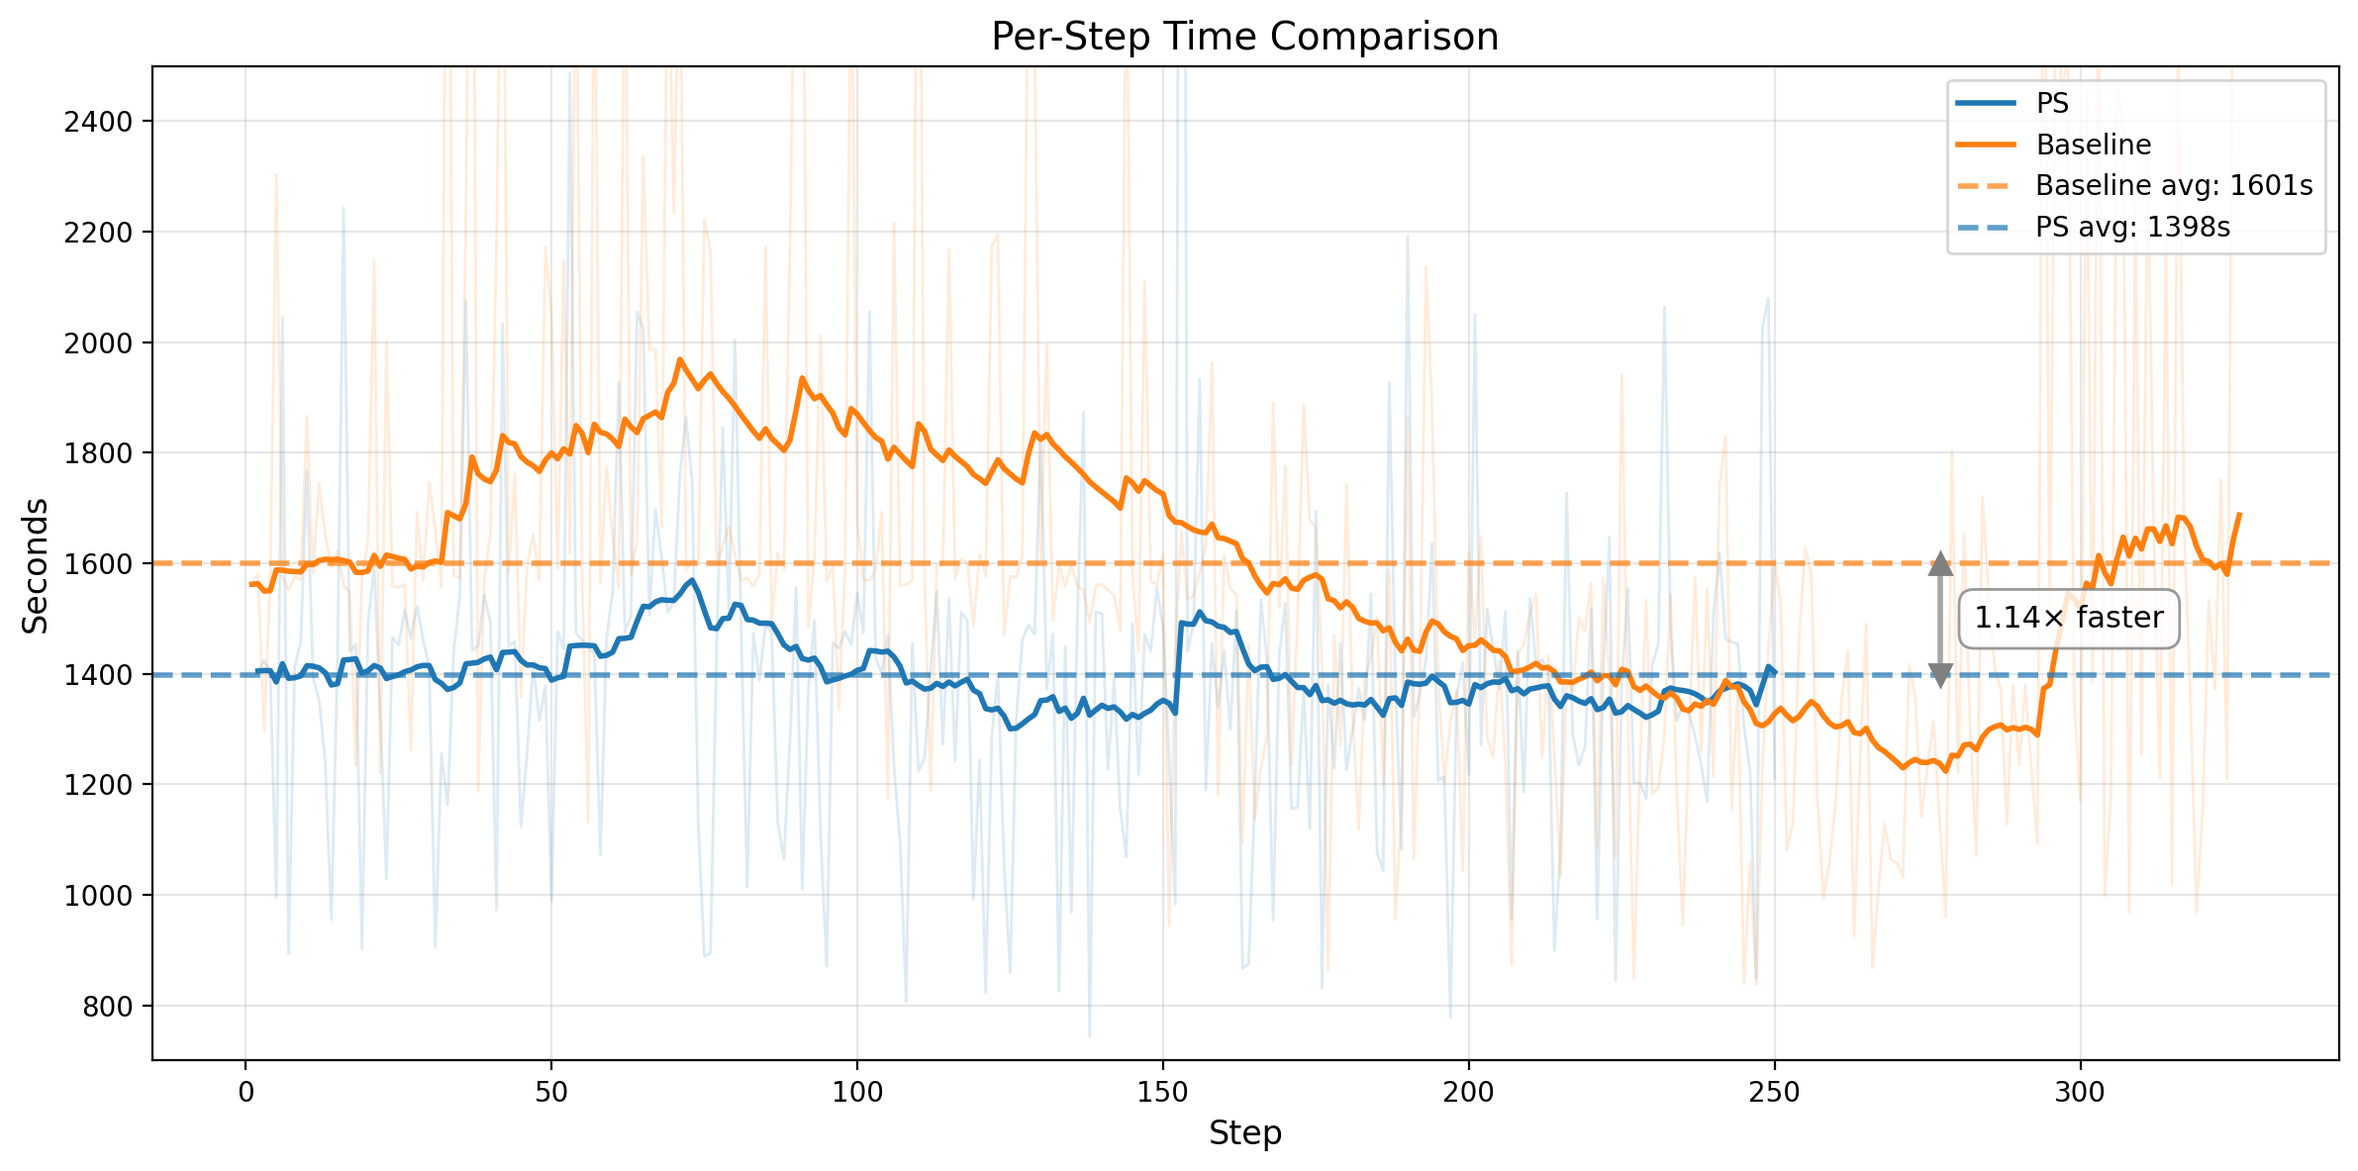
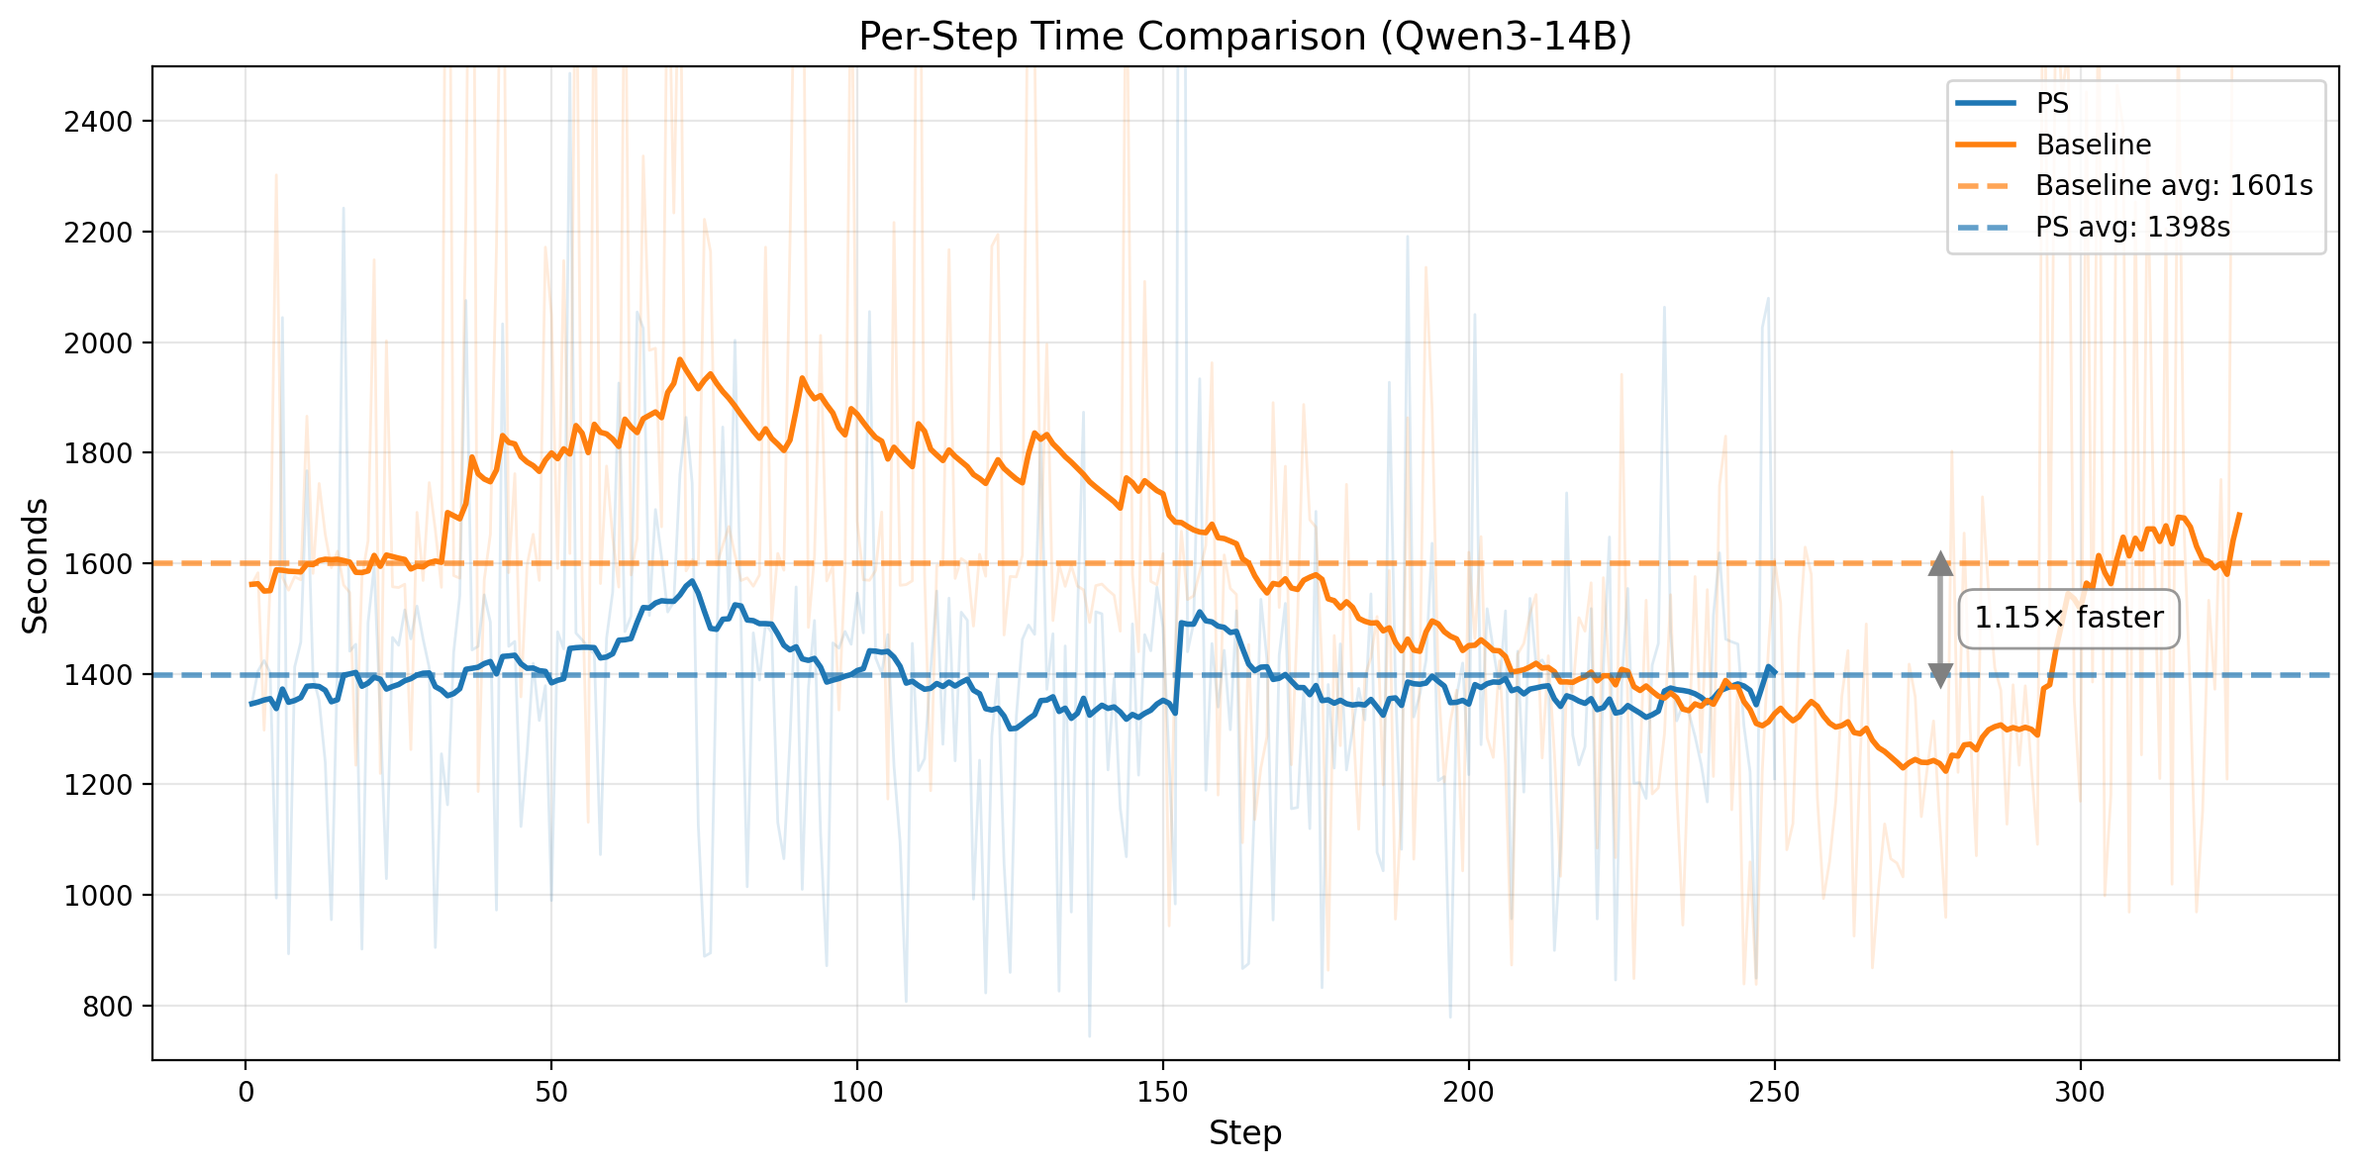
docs: sync latest prefix-sampling blog and figures

Changed region(s): [[0.3728, 0.0, 0.6835, 0.0609], [0.0932, 0.5478, 0.2485, 0.6086]]

diff --git a/research/prefix-sampling/README.md b/research/prefix-sampling/README.md
@@ -1,6 +1,6 @@
 # Prefix Sampling: targeting 50% rollout pass rate for more efficient agentic RL
 
-Tianshu Zhu, Wenyu Zhang, Lun Tian, Haotian Zhao, Ruijie Xu, Yuxin Zhang, Jingnan Gu*, Daxiang Dong*, Jianmin Wu*
+Tianshu Zhu, Wenyu Zhang, Lun Tian, Haotian Zhao, Haifeng Zhang, Ruijie Xu, Yuxin Zhang, Jingnan Gu*, Daxiang Dong*, Jianmin Wu*
 
 *Corresponding authors
 
@@ -8,18 +8,23 @@ Tianshu Zhu, Wenyu Zhang, Lun Tian, Haotian Zhao, Ruijie Xu, Yuxin Zhang, Jingna
 
 ## TL;DR
 
-![SWE-bench Verified Score](figures/qwen3_14b_ps_vs_baseline_1to1_repro_v2.png)
+<div style="display: flex; gap: 16px; align-items: flex-start;">
+  <img src="figures/qwen3_14b_ps_vs_baseline_1to1_repro_v2.png" style="width: 50%;" alt="Qwen3-14B SWE-bench Verified Comparison">
+  <img src="figures/qwen3_32b_ps_vs_baseline_1to1_repro_max_table6.png" style="width: 50%;" alt="Qwen3-32B SWE-bench Verified Comparison">
+</div>
 
-*Figure 1. SWE-bench Verified pass@1 score over training steps, averaged over 3 runs. PS reaches the baseline's peak score 1.8x faster and continues improving, ultimately reaching 0.298 vs the baseline's 0.273.*
+*Figure 1. Left: Qwen3-14B SWE-bench Verified pass@1 score over training steps, averaged over 3 runs. PS reaches the baseline's peak score 1.8x faster and ultimately reaches 0.298 vs 0.273. Right: Qwen3-32B SWE-bench Verified pass@1 score over training steps, averaged over 3 runs. PS reaches the baseline's best score of 0.422 at step 290, while baseline reaches the same score at step 410.*
 
 Reinforcement learning (RL) for coding agents wastes a large fraction of compute on tasks with skewed rollout pass rates.
 When the model almost always fails or almost always succeeds, the gradient signal is weak and biased. **50% rollout pass rate maximizes gradient signal** — that's the target.
 
 **Prefix Sampling (PS) is the most direct way to hit that 50% target**: it replays trajectory prefixes to shift each task's effective rollout pass rate toward 50% — the information-theoretic optimum for binary-reward RL. For mostly-failing tasks, PS gives the model a head start from a rare successful trajectory. For mostly-passing tasks, it imposes a handicap from a rare failing trajectory. In both cases, biased signal is converted into balanced, high-information signal.
 
-On Qwen3-14B (SWE-bench, R2E_Gym), averaged over 3 runs, PS is **~2.07x faster end-to-end** to reach the same SWE-bench Verified pass@1 score (1.8x fewer steps × 1.15x faster per step), and ultimately achieves a higher final pass@1 score: **0.298** vs **0.273** for baseline — a quality improvement with no trade-off.
+On Qwen3-14B (SWE-bench, R2E_Gym), averaged over 3 runs, PS is **~2.07x faster end-to-end** to reach the same SWE-bench Verified pass@1 score (1.80x fewer steps × 1.15x faster per step), and ultimately achieves a higher final pass@1 score: **0.298** vs **0.273** for baseline — a quality improvement with no trade-off.
 
-## Most RL Tasks Have the Wrong Pass Rate
+On Qwen3-32B (SWE-bench, R2E_Gym), averaged over 3 runs, PS is **~1.54x faster end-to-end** to reach the same SWE-bench Verified pass@1 score (**1.40x** fewer steps × **1.10x** faster per step), **without sacrificing performance**.
+
+## Most RL Tasks Have the Wrong Rollout Pass Rate
 
 In our SWE-bench RL training setup (Qwen3-14B, N=8 rollouts per task, batch_size=64), we observe that tasks fall into several categories with very different learning efficiency:
 
@@ -37,7 +42,7 @@ But we *can* recycle heavily skewed tasks (for example 1/8 or 7/8 rollout pass r
 For mostly failing tasks, replay a rare successful prefix as a head start, pushing rollout pass rate toward 50%. For mostly passing tasks, replay a rare failing prefix as a handicap, making success non-trivial again.  
 In both cases, low-quality biased signal is turned into balanced, information-rich signal.
 
-## Why 50% Pass Rate Is the Optimal Target
+## Why 50% Rollout Pass Rate Is the Optimal Target
 
 The key conclusion comes first: for binary-reward RL, **50% rollout pass rate is the optimal target**. It maximizes information, maximizes GRPO signal strength, and gives the richest contrastive structure for credit assignment.  
 We give the full mathematical argument later in the post, right before `Citation`.
@@ -125,7 +130,7 @@ With masking, the training objective remains pure RL: the model is only rewarded
 
 ### Adaptive Prefix (Optional)
 
-*Note: the Qwen3-14B experiments above use fixed ratios — adaptive prefix is not required to achieve the reported speedups.*
+*Note: the Qwen3-14B experiments in this post use fixed ratios, while the Qwen3-32B experiments added below enable adaptive prefix.*
 
 Fixed ratios work reasonably well, but the optimal prefix length changes as the model improves. A ratio that produces 50% prefix task rollout pass rate at step 10 may produce 80% at step 100 (the model got better at completing from prefixes).
 
@@ -144,69 +149,85 @@ The cooldown is important: because the EMA is smoothed over multiple steps, a ra
 
 We compare Prefix Sampling against a baseline on identical infrastructure and hyperparameters. The baseline follows the [DeepSWE](https://www.together.ai/blog/deepswe) training setup — a state-of-the-art RL approach for training coding agents on SWE-bench that uses GRPO with rejection sampling to filter out all-fail and all-pass tasks.
 
+Across the experiments reported here, the Qwen3-14B and Qwen3-32B setups share the same core recipe: `batch_size=64`, `max_prompt_length=4096`, `8` rollouts per task, training on `R2E_Gym_Subset`, and evaluation on `SWE_Bench_Verified_0726`. The main differences are `max_response_length` (`32768` for 14B vs `65536` for 32B), `agent.max_steps` (`50` vs `100`), and prefix control (`fixed ratios` for 14B vs `adaptive prefix` for 32B).
+
+### Experiment Setup
+
+#### Qwen3-14B
+
 | | Baseline | Prefix Sampling |
 |---|---|---|
 | Model | Qwen3-14B | Qwen3-14B |
 | Task | R2E_Gym_Subset | R2E_Gym_Subset |
 | Rollouts per task | 8 | 8 |
 | Batch size | 64 | 64 |
+| Max prompt length | 4096 | 4096 |
+| Max response length | 32768 | 32768 |
+| Agent max steps | 50 | 50 |
 | Rejection sampling | Yes (0%, 100%) | Yes (0%, 100%) |
 | PS thresholds | — | low=0.3, high=0.7 |
-| PS ratios | — | remaining=0.25, prefix=0.25 |
+| PS control | — | fixed ratios |
+| Too-hard remaining ratio | — | 0.75 |
+| Too-easy prefix ratio | — | 0.25 |
+
+#### Qwen3-32B
+
+| | Baseline | Prefix Sampling |
+|---|---|---|
+| Model | Qwen3-32B | Qwen3-32B |
+| Task | R2E_Gym_Subset | R2E_Gym_Subset |
+| Rollouts per task | 8 | 8 |
+| Batch size | 64 | 64 |
+| Max prompt length | 4096 | 4096 |
+| Max response length | 65536 | 65536 |
+| Agent max steps | 100 | 100 |
+| Rejection sampling | Yes (0%, 100%) | Yes (0%, 100%) |
+| PS thresholds | — | low=0.3, high=0.7 |
+| PS control | — | adaptive prefix |
+| Initial too-hard remaining ratio | — | 0.45 |
+| Initial too-easy prefix ratio | — | 0.55 |
+| Too-easy prefix cap | — | 30 |
 
 ### Training Efficiency: Faster Convergence and Lower Cost
 
+<div style="display: flex; gap: 16px; margin-bottom: 12px;">
+  <img src="figures/pass_rate_comparison.png" style="width: 50%;" alt="Qwen3-14B Training Score Comparison">
+  <img src="figures/step_time_comparison.png" style="width: 50%;" alt="Qwen3-14B Step Time Comparison">
+</div>
 <div style="display: flex; gap: 16px;">
-  <img src="figures/pass_rate_comparison.png" style="width: 50%;" alt="Pass Rate Comparison">
-  <img src="figures/step_time_comparison.png" style="width: 50%;" alt="Step Time Comparison">
+  <img src="figures/pass_rate_comparison_qwen32b.png" style="width: 50%;" alt="Qwen3-32B Training Score Comparison">
+  <img src="figures/step_time_comparison_qwen32b.png" style="width: 50%;" alt="Qwen3-32B Step Time Comparison">
 </div>
 
-*Figure 3. Left: training rollout pass rate on no-prefix tasks over steps. The horizontal line marks the baseline's convergence score; PS matches it 1.55x faster and keeps improving. Right: average wall-clock time per training step (seconds).*
+*Figure 3. Top row: Qwen3-14B. Left: training rollout pass rate on no-prefix tasks over steps. The horizontal line marks the baseline's convergence score; PS matches it 1.55x faster and keeps improving. Right: average wall-clock time per training step (`1398s` vs `1601s`). Bottom row: Qwen3-32B. Left: training score comparison; PS reaches the baseline-equivalent score at step `282` vs `395`. Right: average wall-clock time per training step (`2150s` vs `2358s`).*
 
-Both PS and baseline reach similar peak rollout pass rates (~0.39), confirming that speedup does not require sacrificing final performance.  
-In the first figure, the horizontal line marks the baseline's convergence score. PS matches it in **201 steps** vs **312 steps** for baseline, a **1.55x step-efficiency improvement on no-prefix training samples**.  
-PS also continues improving beyond that point.
-
-Step count is only part of the story.  
-The second figure shows that PS also runs **~1.15x faster per step** (1398s vs 1601s average).  
-This may seem counterintuitive because PS adds prefix replay work. But replayed prefix steps are deterministic and need no LLM inference, which is much faster than generating from scratch.  
-The inference savings outweigh the overhead of managing the prefix-task queue.
-
-Combined, these two effects yield an overall **~1.78x end-to-end speedup** to reach the same rollout pass rate: 78h vs 139h wall-clock time.
+The pattern is consistent across both model sizes. On Qwen3-14B, PS matches the baseline convergence level in **201** steps versus **312**, a **1.55x step-efficiency improvement**, and also runs **~1.15x faster per step**, yielding **~1.78x end-to-end speedup** (`78h` vs `139h`). On Qwen3-32B, PS reaches the baseline-equivalent training score at **step 282** versus **395**, a **1.40x step-efficiency improvement**, while also running **~1.10x faster per step**. That translates to roughly **~1.54x end-to-end speedup** to the same training-score threshold.
 
 ### Higher Quality and Quantity Training Samples
 
+<div style="display: flex; gap: 16px; margin-bottom: 12px;">
+  <img src="figures/rerollout_pass_rate.png" style="width: 50%;" alt="Qwen3-14B Prefix Task Pass Rate">
+  <img src="figures/valid_samples_comparison.png" style="width: 50%;" alt="Qwen3-14B Valid Samples Comparison">
+</div>
 <div style="display: flex; gap: 16px;">
-  <img src="figures/rerollout_pass_rate.png" style="width: 50%;" alt="Prefix Task Pass Rate">
-  <img src="figures/valid_samples_comparison.png" style="width: 50%;" alt="Valid Samples Comparison">
+  <img src="figures/rerollout_pass_rate_qwen32b.png" style="width: 50%;" alt="Qwen3-32B Prefix Task Pass Rate">
+  <img src="figures/valid_samples_comparison_qwen32b.png" style="width: 50%;" alt="Qwen3-32B Valid Samples Comparison">
 </div>
 
-*Figure 4. Left: rollout pass rate on prefix tasks only (target: 0.5). Mean = 0.529, std = 0.078 — the prefix length calibration successfully targets the information-theoretic sweet spot. Right: number of valid training tasks per batch (tasks with mixed pass/fail rollouts).*
+*Figure 4. Top row: Qwen3-14B. Left: rollout pass rate on prefix tasks only (target: `0.5`), with mean `0.529` and std `0.078`. Right: number of valid training tasks per batch (`solve_partial`), increasing from `25.9` to `36.5`. Bottom row: Qwen3-32B. Left: prefix-task rollout pass rate under adaptive prefix control, staying near the `0.5` target. Right: valid training tasks per batch, increasing from `30.8` to `39.0`.*
 
-The efficiency gains come from converting low-quality training signal into balanced, information-rich signal.  
-The first figure shows the core evidence: prefix-task rollout pass rate (measured only on tasks with prefix guidance) stays near the 0.5 target throughout training (mean = 0.529, std = 0.078).  
-This confirms that prefix-length calibration shifts task difficulty toward the information-theoretic sweet spot.
-
-The second figure shows the quantity payoff.  
-The `solve_partial` metric counts tasks per batch with mixed pass/fail rollouts, i.e., tasks that produce gradient signal.  
-PS averages **36.5 valid tasks per batch** vs **25.9** for baseline, a **41% increase** in useful training data per step.
-
-But the gain is not only in quantity.  
-Tasks with heavily skewed rollout pass rates (e.g., 1/8 or 7/8) that would have contributed weak, biased gradient signal are transformed through prefix replay into balanced partial-pass results near 50% rollout pass rate.  
-These samples are *more informative*, because their rollout pass rates concentrate near the information-theoretic optimum instead of marginal extremes.  
-That combination, 41% more samples at higher information value, drives the ~1.55x step-efficiency improvement.
+The efficiency gains come from converting weak, skewed training signal into balanced, information-rich signal. On Qwen3-14B, prefix-task rollout pass rate stays near the 0.5 target throughout training, and PS increases the number of valid training tasks per batch from **25.9** to **36.5**, a **41% increase**. On Qwen3-32B, the same mechanism holds under adaptive prefix control: prefix-task rollout pass rate remains centered near **0.5**, while valid training tasks per batch increase from **30.8** to **39.0**, or **1.27x more** useful tasks per step. In both cases, PS improves both the quantity and the information density of the training data.
 
 ### Higher Entropy, Better Exploration
 
-<img src="figures/entropy_comparison.png" style="width: 50%;" alt="Entropy Comparison">
+<div style="display: flex; gap: 16px; align-items: flex-start;">
+  <img src="figures/entropy_comparison.png" style="width: 50%;" alt="Qwen3-14B Entropy Comparison">
+  <img src="figures/entropy_comparison_qwen32b.png" style="width: 50%;" alt="Qwen3-32B Entropy Comparison">
+</div>
 
-*Figure 5. Output entropy over training steps. PS maintains higher entropy than the baseline before convergence, indicating healthier exploration. Vertical lines mark the convergence points (steps 201 and 312).*
+*Figure 5. Left: Qwen3-14B output entropy over training steps; PS maintains higher entropy than the baseline before convergence, with convergence markers at steps `201` and `312`. Right: Qwen3-32B output entropy over training steps; PS again maintains higher pre-convergence entropy, with convergence markers at steps `282` and `395`.*
 
-Entropy measures diversity in the model output distribution.  
-Higher entropy implies more exploration; collapsing entropy suggests the policy is becoming too deterministic.  
-PS maintains higher entropy than baseline before convergence, which is beneficial for RL training because it supports better exploration.  
-Both curves later converge to similar entropy levels, indicating PS does not cause premature entropy collapse.  
-The vertical lines (steps 201 and 312) show PS reaches the same final state while maintaining healthier exploration along the way.
+Entropy tells the same story on both models: PS maintains higher entropy through most of the pre-convergence phase, which supports healthier exploration without causing premature collapse. On both Qwen3-14B and Qwen3-32B, the entropy curves later approach similar levels, indicating that PS reaches the same eventual regime while exploring more effectively along the way.
 
 ## Takeaways
 
@@ -222,7 +243,7 @@ Instead, it targets the large middle ground of tasks that already produce gradie
 3. **Adaptive prefix control** automatically recalibrates prefix length as the model improves, maintaining the 50% target without manual tuning.
 4. **Dynamic on-policy prefix** uses the latest model's self-generated trajectories from the current step, ensuring prefix tasks always reflect the model's current capabilities and avoiding off-policy staleness.
 
-Our experiments on Qwen3-14B with R2E_Gym tasks show that PS matches the baseline's peak score with **1.55x better step-efficiency** and **~1.15x faster wall-clock time per step** — an overall **~1.78x end-to-end speedup**, while continuing to improve beyond the baseline's convergence point. The reported gains in this post come from fixed-ratio PS (`remaining=0.25`, `prefix=0.25`); adaptive control is included as an extensible mechanism.
+Our experiments now cover both configurations: a **fixed-ratio Qwen3-14B** setup and an **adaptive-prefix Qwen3-32B** setup. On Qwen3-14B, PS delivers **1.55x better step-efficiency** and **~1.15x faster wall-clock time per step**, for an overall **~1.78x end-to-end speedup**. On Qwen3-32B, PS reaches the same best SWE-bench Verified pass@1 score **1.40x earlier** (`290` vs `410`) while also running **~1.10x faster per step**. Together, these results show that Prefix Sampling remains effective both with fixed ratios and with adaptive prefix control.
 
 **Future work:** The current prefix length selection uses fixed ratios or a simple EMA-based adaptive controller. A promising direction is better prefix length selection — for example, learning a model that predicts the optimal prefix length for a given task and current model capability, directly targeting 50% prefix task rollout pass rate with fewer adjustment steps and less overshoot.
 
@@ -359,7 +380,7 @@ So the training target is not just “nonzero rollout pass rate,” but “maxim
 @misc{zhu2026prefixsampling,
   title = {Prefix Sampling: Agentic RL with Prefix Guidance},
   url = {TBD},
-  author = {Tianshu Zhu and Wenyu Zhang and Lun Tian and Haotian Zhao and Ruijie Xu and Jingnan Gu and Daxiang Dong and Jianmin Wu},
+  author = {Tianshu Zhu and Wenyu Zhang and Lun Tian and Haotian Zhao and Haifeng Zhang and Ruijie Xu and Jingnan Gu and Daxiang Dong and Jianmin Wu},
   year = {2026},
   month = {Mar},
 }
